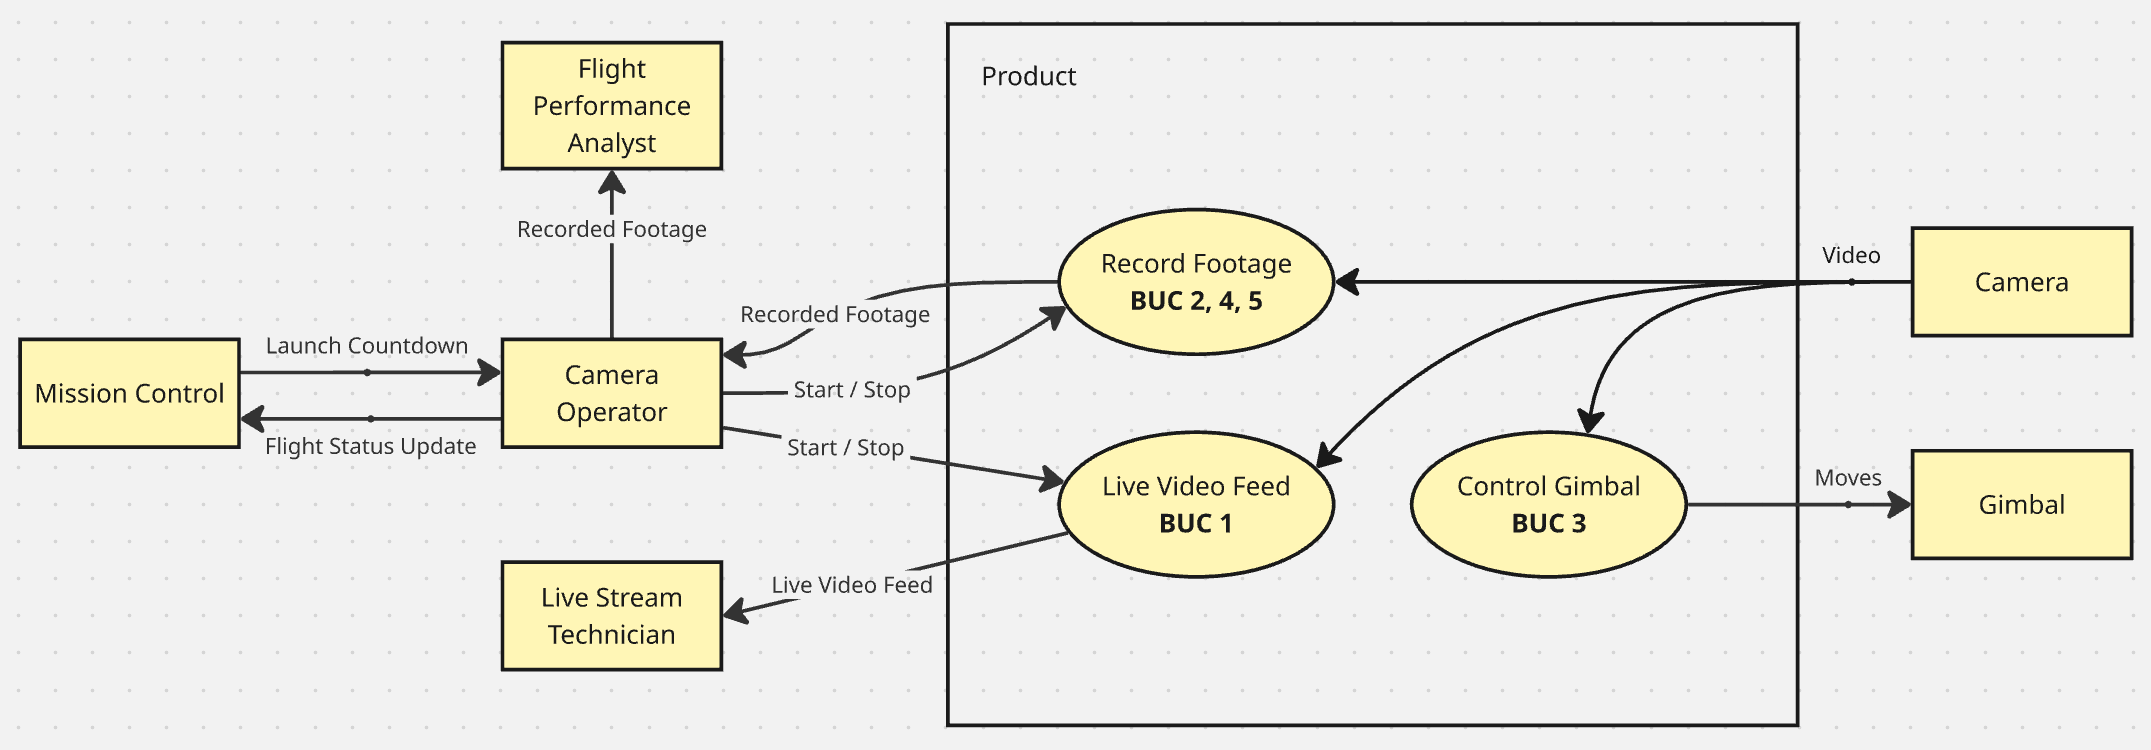
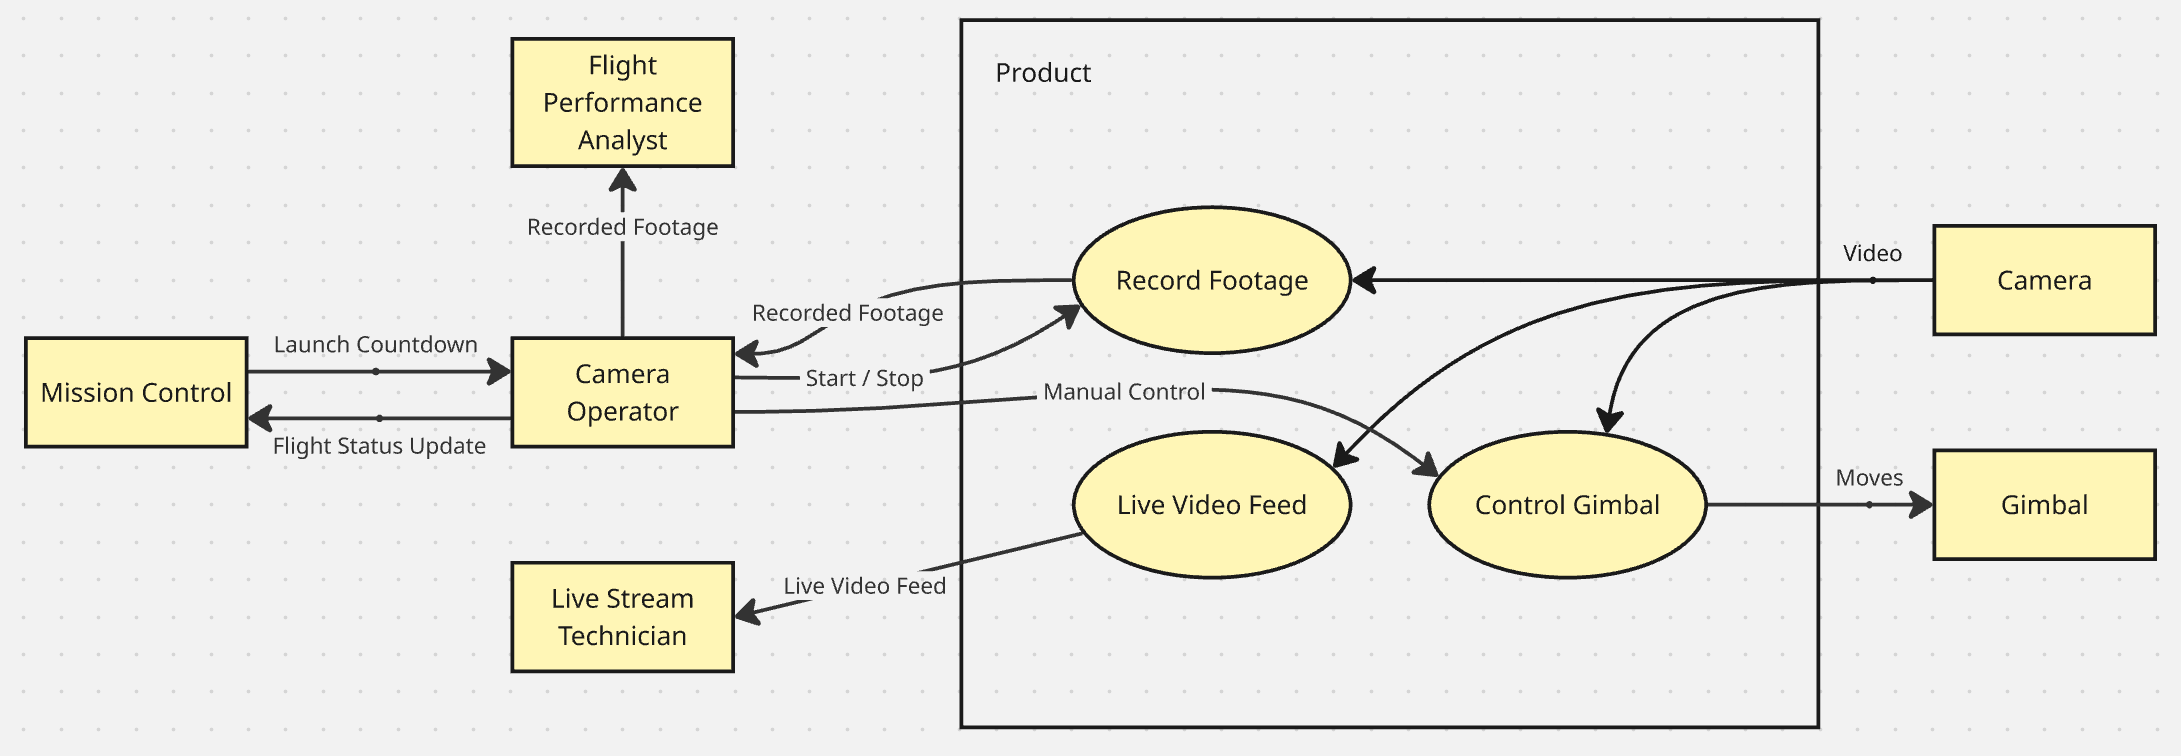
product use case

diff --git a/docs/SRS/SRS.tex b/docs/SRS/SRS.tex
@@ -427,20 +427,20 @@ in the real world that affect the work of tracking rockets.
     \toprule \textbf{No.} & \textbf{Event Name}                                  &
     \textbf{Input / Output}                                                        \\
     \midrule
-    BUC 1                 & Live stream equipment is ready                       &
-    (in) Vocal confirmation from live stream technician \newline
-    (out) Start transmitting the video to the live stream
+    BUC 1                 & Output live video                                    &
+    (in) Video feed from camera \newline
+    (out) Transmitting the video to the live stream
     \\
     BUC 2                 & Launch countdown starts                              &
     (in) Vocal count down from Mission Control \newline
     (out) Start recording the rocket flight
     \\
     BUC 3                 & Rocket takes flight                                  &
-    (in) Video captured from camera \newline
+    (in) Video feed from camera \newline
     (out) Keeps pointing the camera to the rocket
     \\
     BUC 4                 & Rocket completes flight                              &
-    (in) Video captured from camera \newline
+    (in) Video feed from camera \newline
     (out) Stop tracking the rocket \newline
     (out) Save the video  \newline
     (out) Update mission control on flight status
@@ -462,20 +462,17 @@ individual business use case (BUC) which describes business logic in detail.
 
 ~\\
 
-\textbf{BUC 1: Live stream equipment is ready.}
+\textbf{BUC 1: Output live video.}
 
-\textbf{Trigger:} Live Stream Technician confirms the live stream equipment is ready to receive video.
+\textbf{Trigger:} None, always active.
 
 \textbf{Interested Stakeholders:} Model Rocketry Event Organizers
 
-\textbf{Preconditions:} Camera is powered on and video feed is available.
+\textbf{Preconditions:} Camera is powered on.
 
 \textbf{Main Flow of Steps:}
 \begin{enumerate}
-  \item The live stream technician notifies the camera operator that the stream
-        equipment is ready to receive video.
-  \item The camera operator connect the camera to the live stream equipment and
-        configure the camera to output video.
+  \item The camera operator connect the camera to the live streaming equipments.
 \end{enumerate}
 
 \textbf{Outcome:} The live stream receives a video feed from the camera.
@@ -606,10 +603,9 @@ primary use cases of the system.
     \toprule \textbf{BUC No.}       & \textbf{PUC No.}        & \textbf{PUC Name}              &
     \textbf{Actors}                 & \textbf{Input / Output}                                    \\
     \midrule
-    1                               & 1                       & Start / stop live video output &
-    Camera Operator, Camera, Live Stream Technician
+    1                               & 1                       & Live video output              &
+    Camera, Live Stream Technician
                                     &
-    (in) Start / stop live video output command \newline
     (in) Video feed from camera \newline
     (out) Live video output                                                                      \\
     2                               & 2.1                     & Point camera to rocket         &
@@ -622,6 +618,12 @@ primary use cases of the system.
                                     &
     (in) Start video recording command \newline
     (out) Video recording started                                                                \\
+    2                               & 2.3                     & Start tracking rocket          &
+    Camera Operator, Camera, Gimbal
+                                    &
+    (in) Start tracking rocket command \newline
+    (out) System in armed state                                                                  \\
+
     3                               & 3                       & Automated rocket tracking      &
     Camera, Gimbal                  &
     (in) Video feed from camera \newline
@@ -633,7 +635,8 @@ primary use cases of the system.
     4                               & 4.2                     & Stop tracking rocket           &
     Camera Operator, Camera, Gimbal &
     (in) Stop tracking rocket command \newline
-    (out) Gimbal stops moving                                                                    \\
+    (out) Gimbal stops moving \newline
+    (out) System in idle state                                                                   \\
     5                               & 5                       & View recorded footage and logs &
     Camera Operator                 &
     (in) request to download footage and logs \newline
@@ -651,74 +654,149 @@ something something
 
 ~\\
 
-\textbf{PUC 1: Record Footage.}
+\textbf{PUC 1: Live video output.}
 
-\textbf{Actors:} Camera Operator, Camera.
+\textbf{Actors:} Camera, Live Stream Technician.
 
-\textbf{Trigger:} Mission Control begins the countdown to launch.
+\textbf{Preconditions:} The system is powered on and has finished initialization.
+
+\textbf{Main Flow of Steps:}
+\begin{enumerate}
+  \item The camera operator connects the system to the live streaming equipments.
+\end{enumerate}
+
+\textbf{Outcome:} The live streaming equipments receive a video feed from the system.
+
+~\\
+
+\textbf{PUC 2.1: Point camera to rocket.}
+
+\textbf{Actors:} Camera Operator, Camera, Gimbal.
 
 \textbf{Preconditions:} The system is in idle state.
 
 \textbf{Main Flow of Steps:}
 \begin{enumerate}
-  \item Upon hearing the countdown, the camera operator
+  \item The camera operator monitors the camera preview on the UI.
+  \item The camera operator selects the direction to rotate the gimbal on the UI.
+  \item The system sends commands to the gimbal to rotate to the selected direction.
+  \item The camera operator confirms the gimbal is rotating to the selected direction
+        through the preview.
 \end{enumerate}
 
-\textbf{Outcome:} Video and logs are safely stored and the flight status is communicated to Mission Control.
+\textbf{Outcome:} The gimbal is rotated to the selected direction.
 
-Product Use Case: Detect and Track Rocket
+~\\
 
-\textbf{Primary Actor:} Tracking Camera System (automated).
-\textbf{Supporting Actor:} Rocket Launch Vehicle (provides visual target).
+\textbf{PUC 2.2: Start video recording.}
 
-\textbf{Preconditions:}
-\begin{itemize}
-  \item System has received launch cue and is in ``takeoff mode.''
-  \item Camera and gimbal are powered, calibrated, and aligned with launch pad
-        coordinates.
-  \item Recording session has been initialized.
-\end{itemize}
+\textbf{Actors:} Camera Operator, Camera.
+
+\textbf{Preconditions:} The system is powered on and has finished initialization; not currently recording.
 
 \textbf{Main Flow of Steps:}
 \begin{enumerate}
-  \item System continuously receives video frames from the camera sensor.
-  \item Detection algorithm processes frames to identify rocket plume or body.
-  \item If candidate target is detected, the system validates confidence score against
-        threshold.
-  \item A bounding box is assigned to the target and updated each frame.
-  \item Target position is mapped to screen coordinates relative to frame center.
-  \item Gimbal controller calculates required pan/tilt adjustments using PID (or
-        equivalent) to re-center target.
-  \item Pan/tilt commands are issued to the gimbal hardware.
-  \item Optional: zoom controller adjusts focal length to maintain target resolution
-        above minimum threshold.
-  \item Updated gimbal state is logged along with timestamp and detection confidence.
-  \item HDMI output and operator preview are refreshed with updated framing.
-  \item Loop repeats for each frame until end-of-flight signal is received.
+  \item The camera operator clicks the "Start Recording" button on the UI.
+  \item The system starts to record the camera feed and additional logs (e.g. angle of
+        the gimbal, temperature of the camera, etc.).
+  \item The UI displays a recording indicator and the elapsed recording time.
 \end{enumerate}
 
-\textbf{Alternative Flows:}
-\begin{itemize}
-  \item \emph{Detection Lost:} If no target is detected for $>$N consecutive frames, the system widens search area (zoom out or broaden ROI) and flags status as ``searching.''
-  \item \emph{False Detection:} If multiple objects match, system prioritizes trajectory consistent with launch path and highest confidence score.
-\end{itemize}
+\textbf{Outcome:} Video recording starts and logs are written to storage.
 
-\textbf{Postconditions:}
-\begin{itemize}
-  \item Rocket remains within a defined bounding region (e.g., $\pm$10\% frame center)
-        for at least 80\% of observable flight.
-  \item Continuous log of gimbal angles, bounding box coordinates, and confidence
-        values is maintained.
-  \item Recorded video contains centered rocket imagery for subsequent analysis.
-\end{itemize}
+~\\
 
-\textbf{Business Data Involved:}
-\begin{itemize}
-  \item Frame sequence and timestamps.
-  \item Bounding box coordinates.
-  \item Gimbal pan/tilt/zoom values.
-  \item Detection confidence scores.
-\end{itemize}
+\textbf{PUC 2.3: Start tracking rocket.}
+
+\textbf{Actors:} Camera Operator, Camera, Gimbal.
+
+\textbf{Preconditions:} System is in idle state.
+
+\textbf{Main Flow of Steps:}
+\begin{enumerate}
+  \item The camera operator selects the "Arm" button on the UI.
+  \item The system enters the armed state.
+  \item The UI displays a "Armed" indicator.
+\end{enumerate}
+
+\textbf{Outcome:} The system enters the armed state and starts to look for rockets.
+
+~\\
+
+\textbf{PUC 3: Automated rocket tracking.}
+
+\textbf{Actors:} Camera, Gimbal.
+
+\textbf{Preconditions:} System is in armed state.
+
+\textbf{Main Flow of Steps:}
+\begin{enumerate}
+  \item The system processes incoming frames to detect moving rockets.
+  \item (Event) The system detects a moving rocket.
+  \item The system enters the tracking state.
+  \item The UI displays a "Tracking" indicator.
+  \item The system sends movement commands to the gimbal to keep the rocket centered in
+        the frame.
+  \item If the rocket is lost, the system returns to idle state.
+\end{enumerate}
+
+\textbf{Outcome:} The gimbal follows the rocket and keeps it near the frame center until the rocket is lost.
+
+~\\
+
+\textbf{PUC 4.1: Stop video recording.}
+
+\textbf{Actors:} Camera Operator, Camera.
+
+\textbf{Preconditions:} The system is powered on and has finished initialization; currently recording.
+
+\textbf{Main Flow of Steps:}
+\begin{enumerate}
+  \item The camera operator clicks the "Stop Recording" button on the UI.
+  \item The system stops recording the camera feed and additional logs (e.g. angle of
+        the gimbal, temperature of the camera, etc.).
+  \item The system saves the video and logs to storage.
+  \item The UI stops displaying the recording indicator.
+
+\end{enumerate}
+
+\textbf{Outcome:} Video recording stops.
+
+~\\
+
+\textbf{PUC 4.2: Stop tracking rocket.}
+
+\textbf{Actors:} Camera Operator, Camera, Gimbal.
+
+\textbf{Preconditions:} System is in armed or tracking state.
+
+\textbf{Main Flow of Steps:}
+\begin{enumerate}
+  \item The camera operator clicks the "Stop Tracking" button on the UI.
+  \item The system returns to idle state.
+  \item The system stops sending movement commands to the gimbal.
+  \item The UI displays a "Idle" indicator.
+\end{enumerate}
+
+\textbf{Outcome:} The system returns to idle state.
+
+~\\
+
+\textbf{PUC 5: View recorded footage and logs.}
+
+\textbf{Actors:} Camera Operator.
+
+\textbf{Preconditions:} The system is in idle state.
+
+\textbf{Main Flow of Steps:}
+\begin{enumerate}
+  \item The camera operator opens the recordings page in the UI.
+  \item The camera operator filters or selects the desired tracking session by
+        date/time.
+  \item The camera operator downloads the files to their device.
+\end{enumerate}
+
+\textbf{Outcome:} The desired footage and logs are downloaded for offline viewing and analysis.
 
 \subsection{System State Diagram}
 
